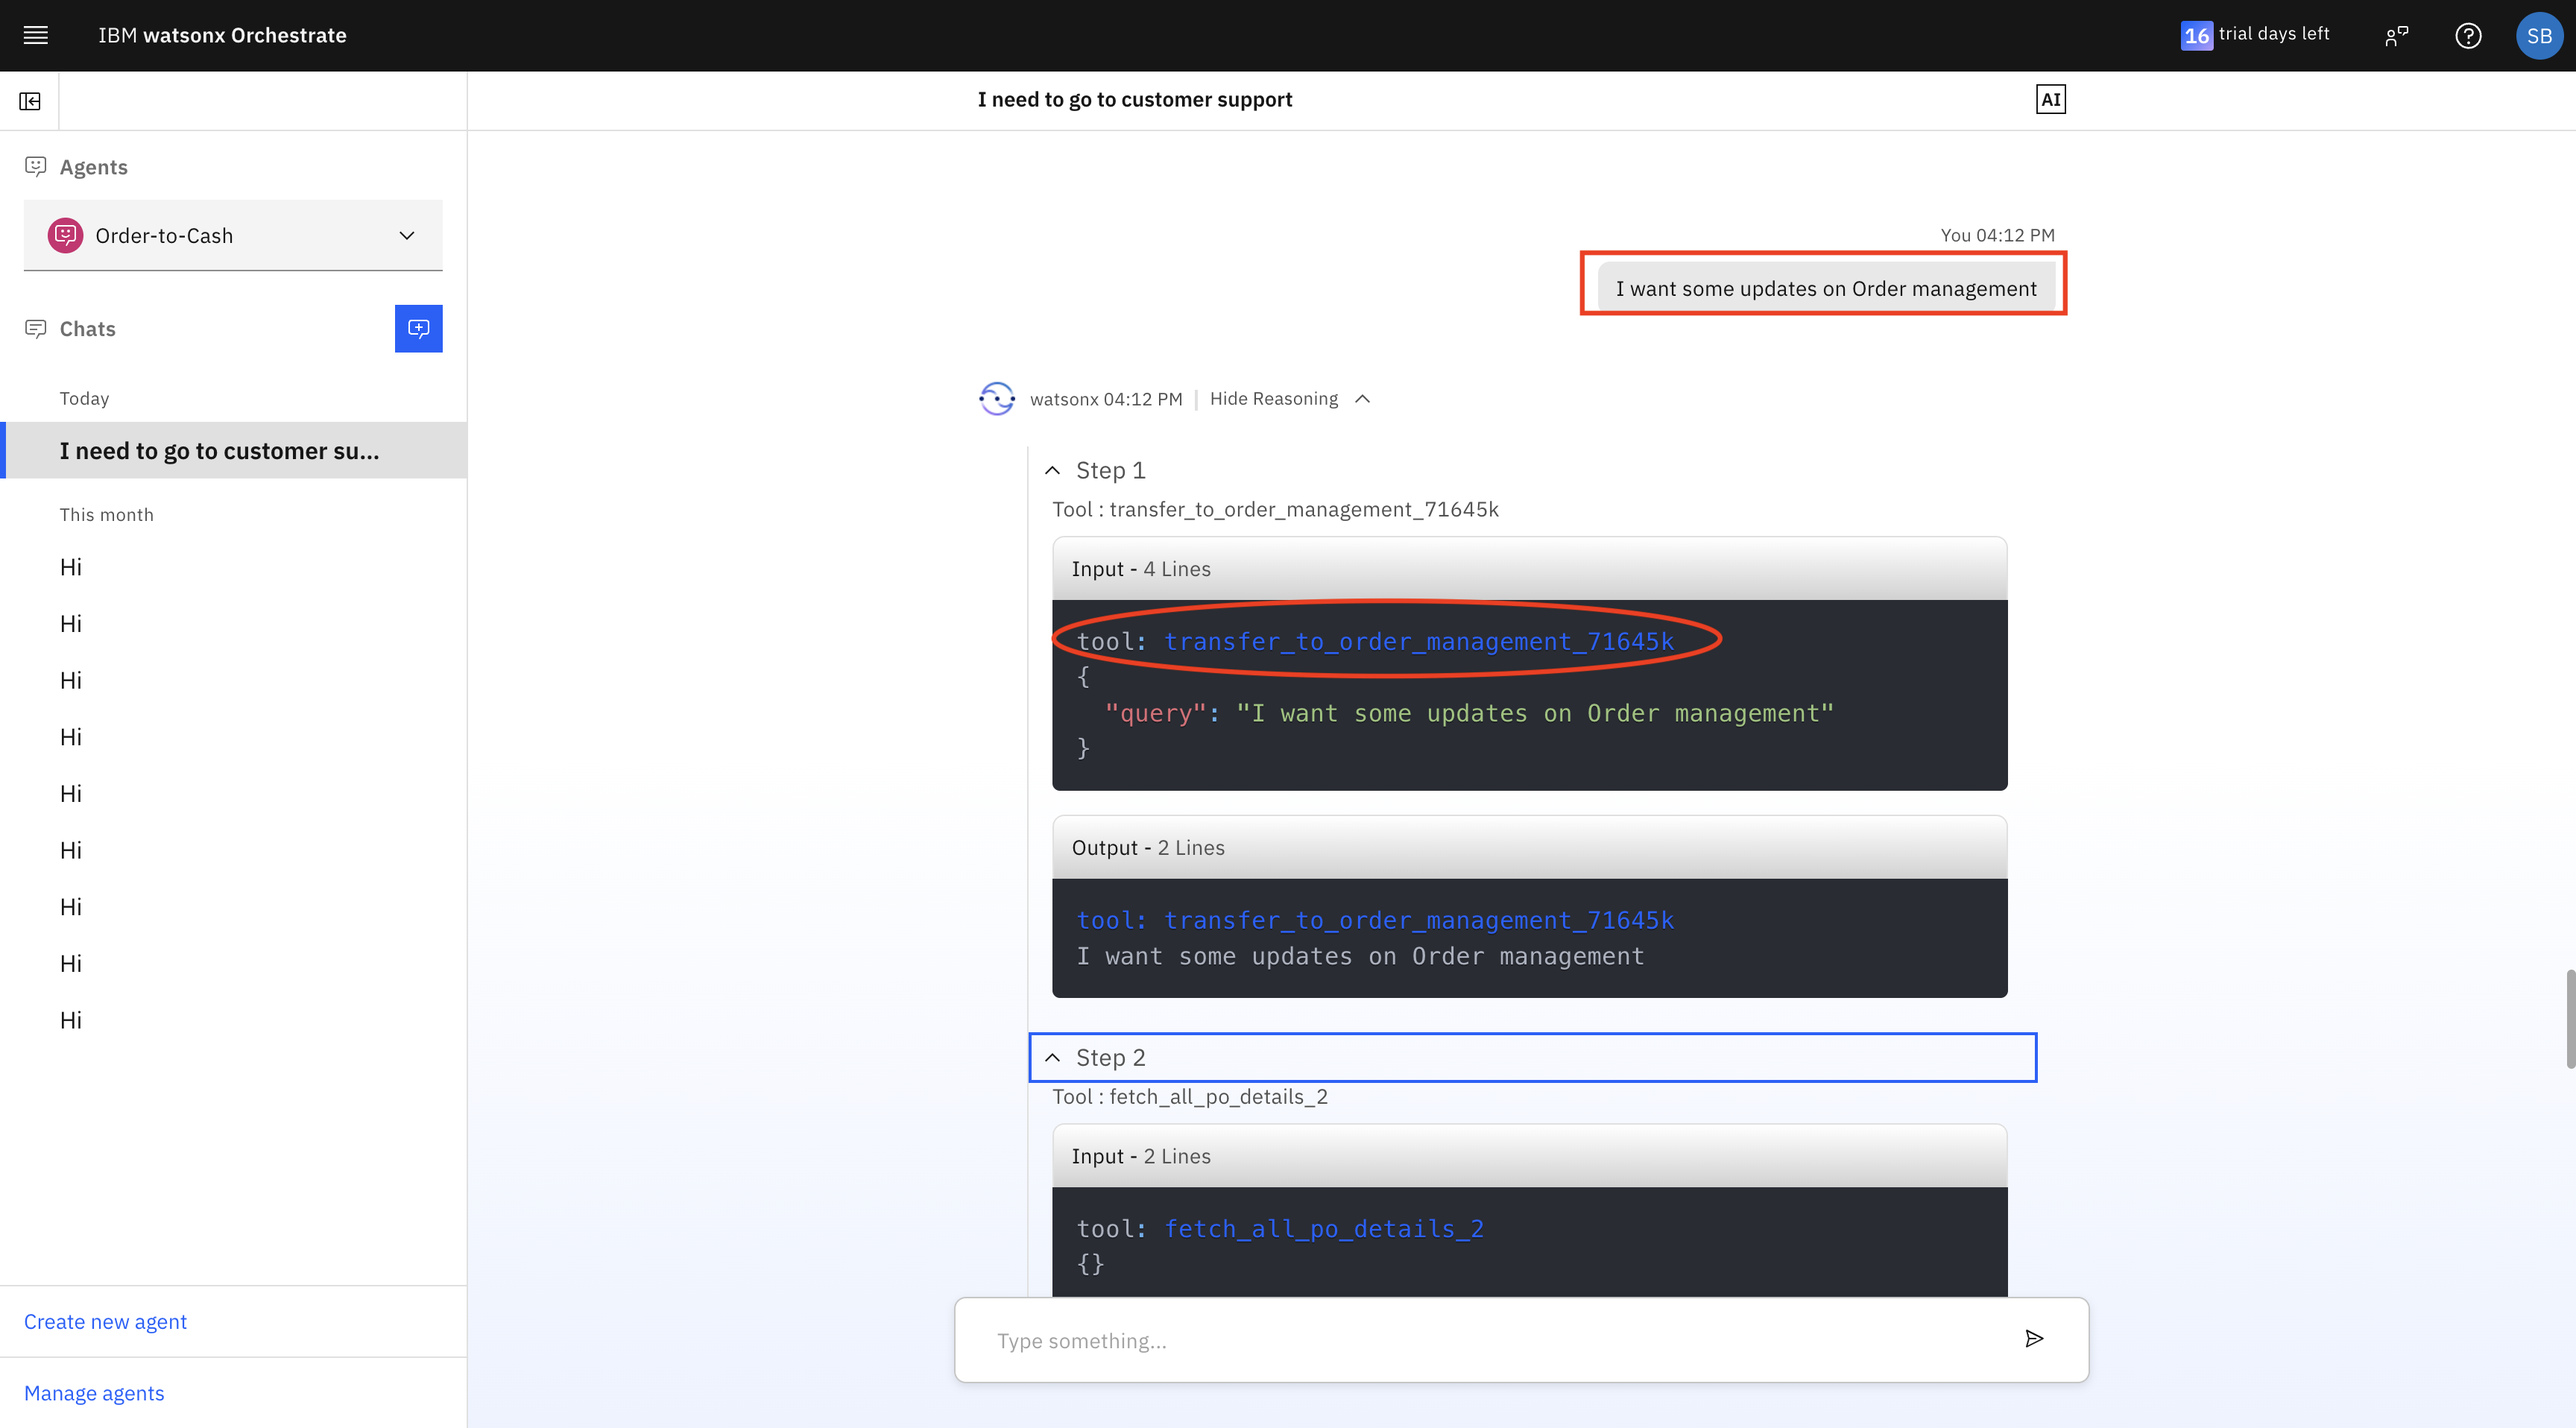
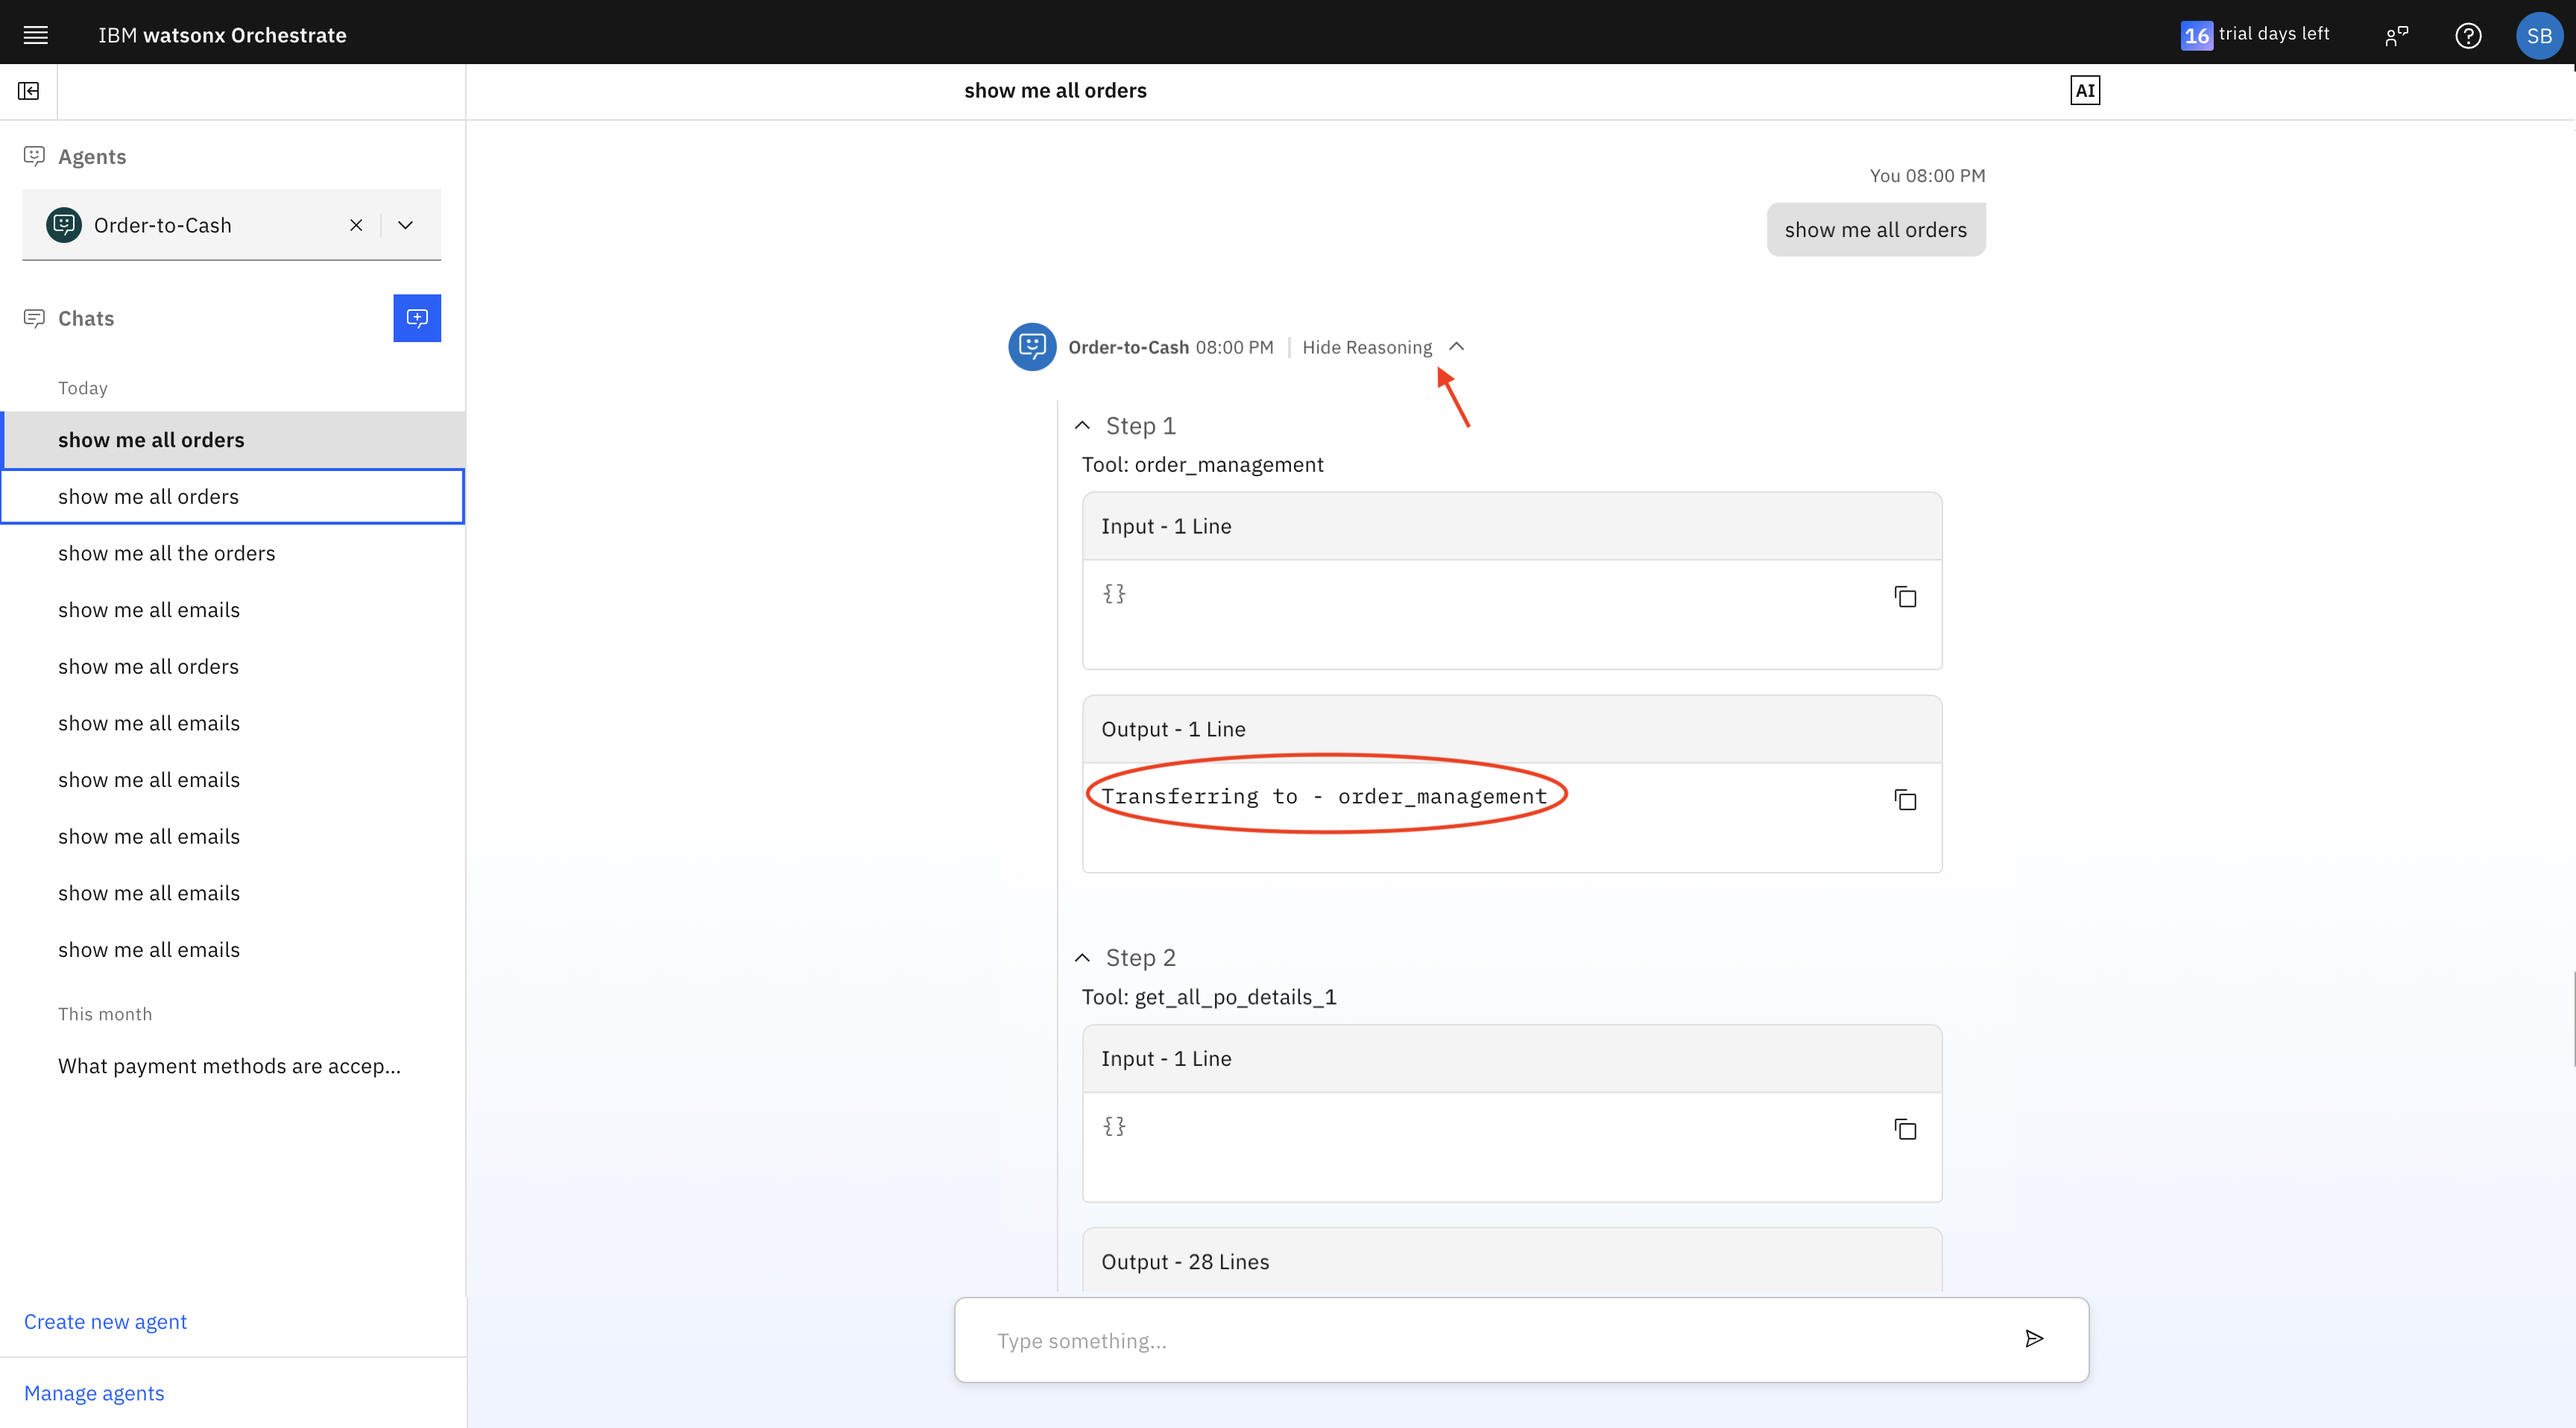
Updated Handson file

diff --git a/usecases/order-to-cash/practitioner_docs/hands-on-lab.md b/usecases/order-to-cash/practitioner_docs/hands-on-lab.md
@@ -44,7 +44,6 @@ To access watsonx Orchestrate, follow these steps:
 
 2. On your IBM Cloud landing page, click the top left navigation menu (hamburger menu) and select **Resource list**.
 *Note: If you are a member of multiple IBM Cloud accounts, make sure you are working in the correct account which has the required services available as explained in the [environment-setup](https://github.ibm.com/skol/agentic-ai-client-bootcamp/tree/release/v3.0.0/environment-setup) guide.*
-
 ![IBM Cloud Resource List](./images/ibm_cloud_resources.png) 
 
 3. On the Resource List page, expand the **AI / Machine Learning** section, and click the **Watsonx Orchestrate** service service name.
@@ -439,11 +438,11 @@ The Supervisor Agent oversees two domain-specific agents:
 
 ###  **Triggering Logic**
 * **Order Management Queries**
-  *Trigger Condition*: When a user initiates a conversation or asks a question containing the keyword `order management` or related phrases.
+  *Trigger Condition*: When a user initiates a conversation or asks a question containing the keyword `show me all orders`,'manage orders' or related phrases.
   *Action*: Automatically delegates the conversation to the **Order Management Agent**, which follows a structured step-by-step workflow to fetch and manage purchase orders and quotations.
 
 * **Customer Support Queries**
-  *Trigger Condition*: When the user asks for help using the keyword `customer support` or related intent.
+  *Trigger Condition*: When the user asks for help using the keyword 'show me all emails', `customer support` or related intent.
   *Action*: Passes control to the **Customer Support Agent**, which handles email-based inquiries, order updates, and customer communication workflows.
 ---
 
@@ -509,6 +508,7 @@ Question:
 
 ![wxo chat q1 reasoning](./images/img26copy.png)
 ![wxo chat q1](./images/img27.png)
+![wxo chat q1](./images/img27.1.png)
 
 46. Next, ask the following question to get response from knowledge base.
 
@@ -526,7 +526,7 @@ Expand the **Show Reasoning** and **Step 1** sections to investigate the agent's
 
 Question: 
 
-```I want some updates on my order```
+```Show me all orders```
 
 Expand the **Show Reasoning** section and observe that the agent took 2 steps to retrieve the response for this question.
 
@@ -536,7 +536,7 @@ Expand the **Step 1** and **Step 2** sections and observe the agent transferring
 ![wxo chat q3 reasoning](./images/img31.png)
 ![wxo chat q3 reasoning](./images/img32.png)
 ![wxo chat q3 reasoning](./images/img33.png)
-![wxo chat q3 reasoning](./images/img34.png)
+
 
 Feel free to explore and experience the power of Agents in action! 
 
